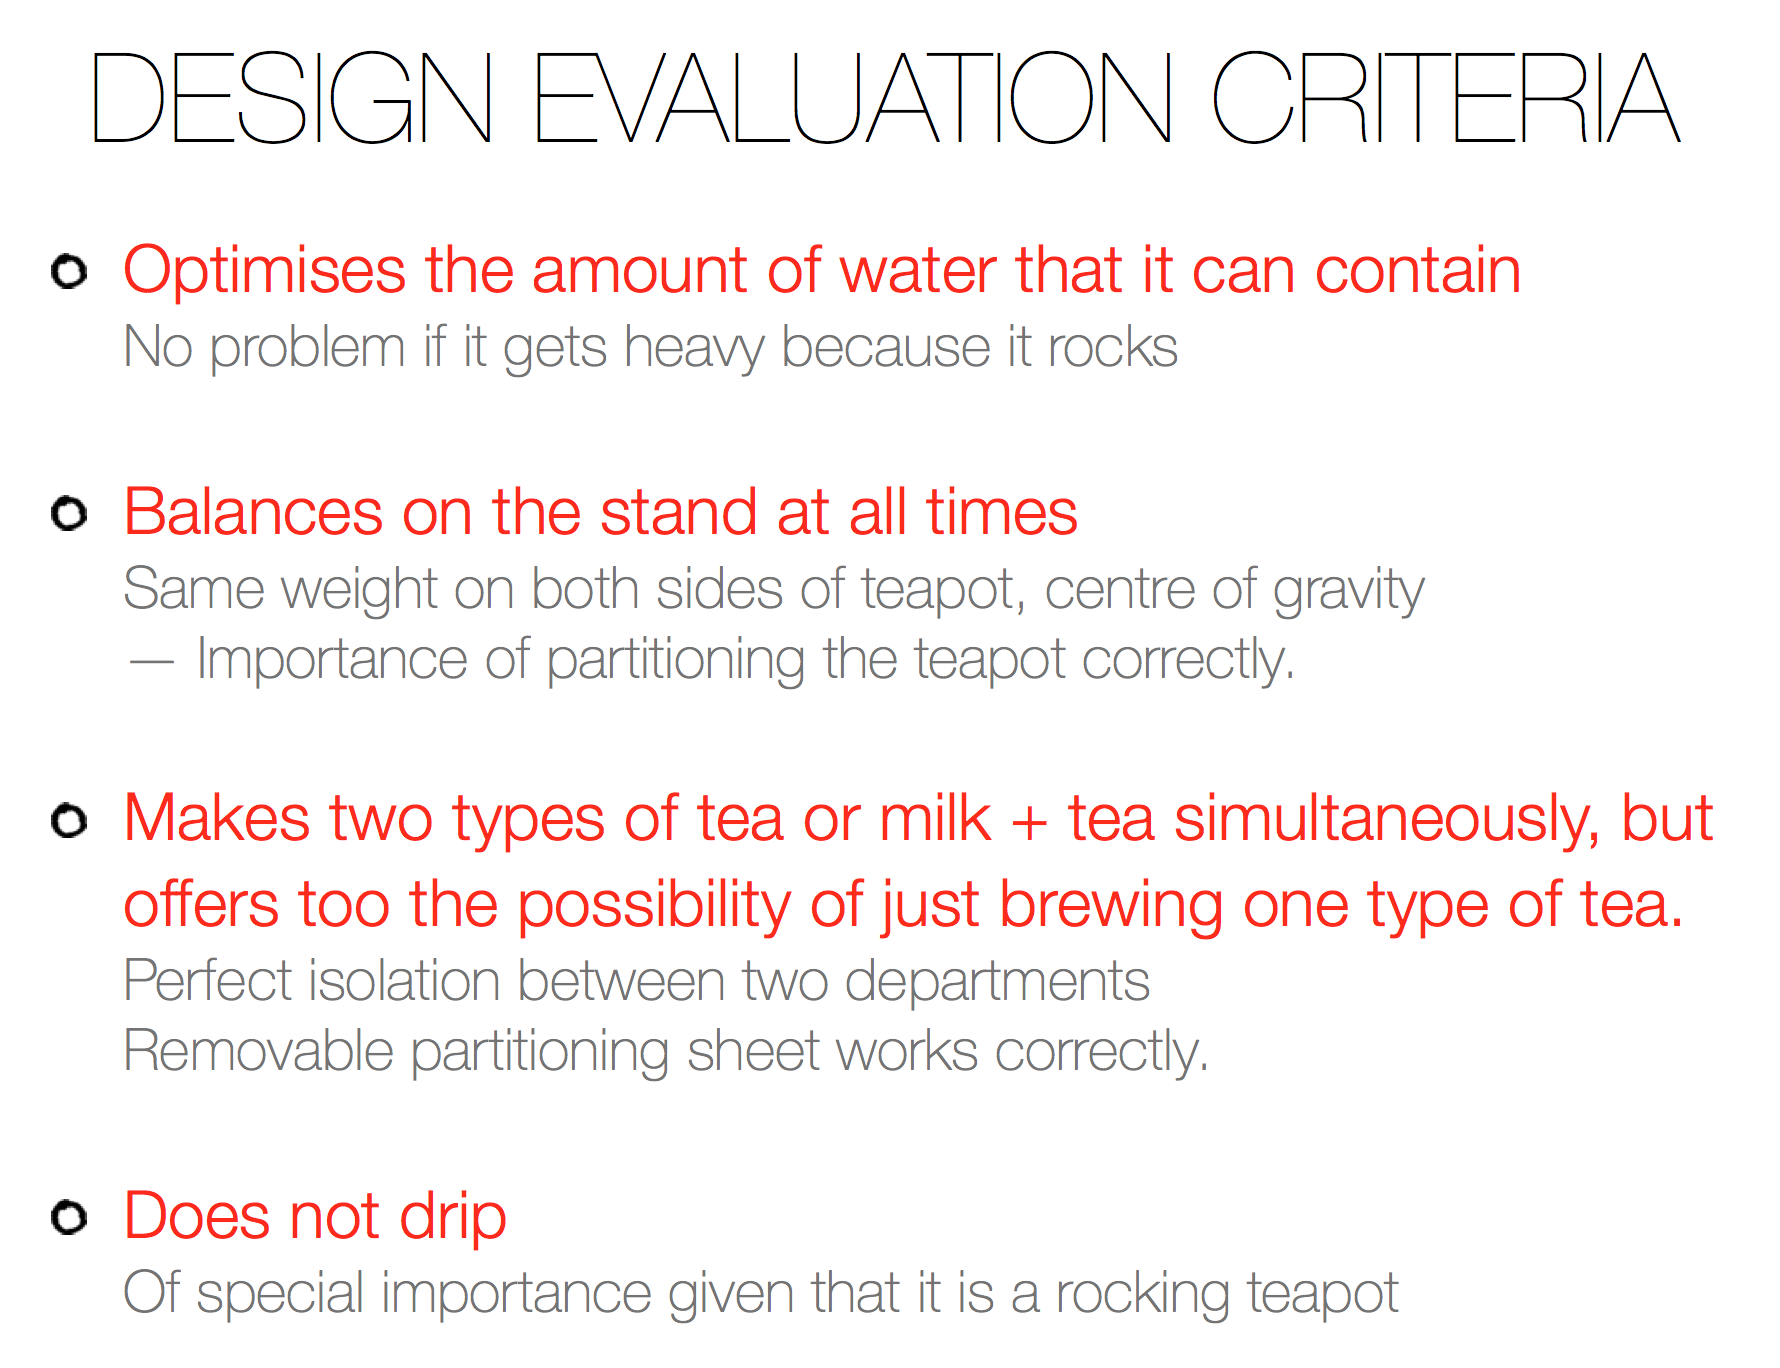
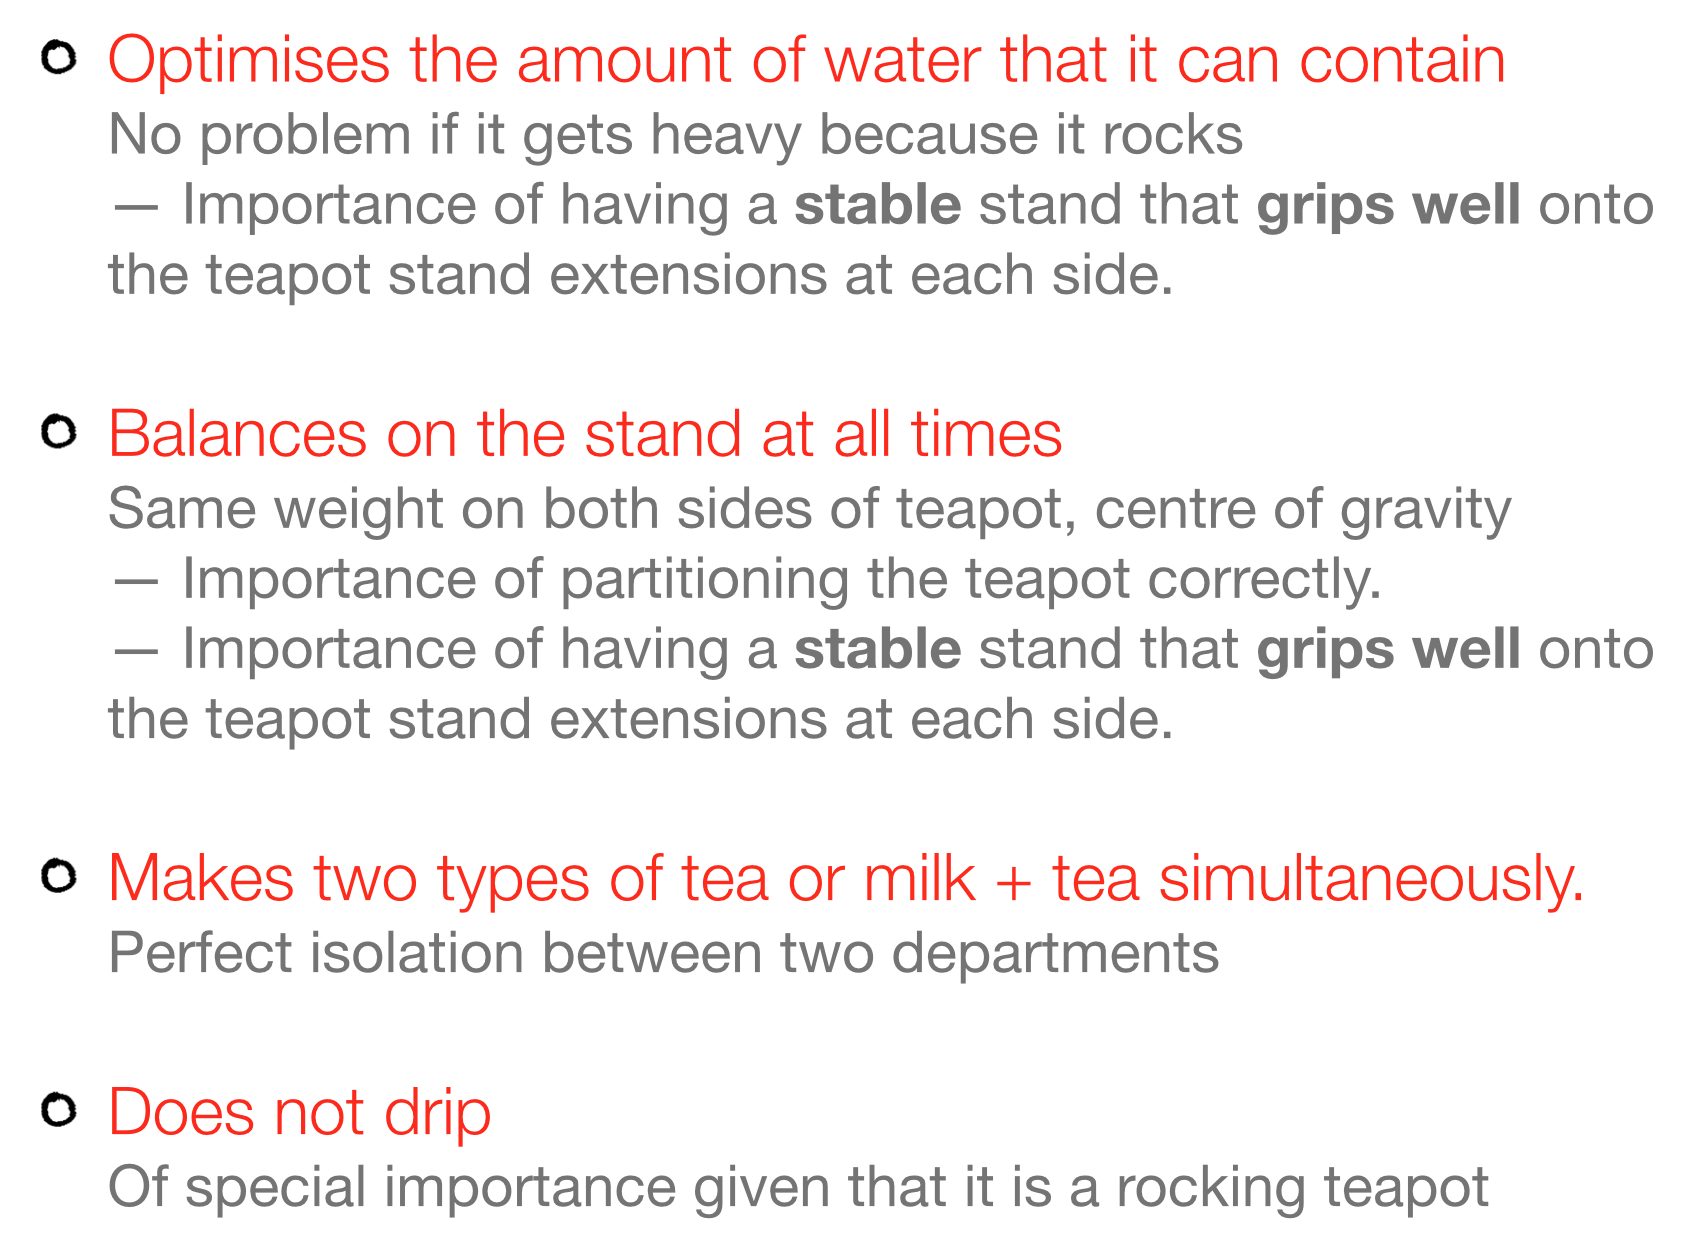
updating teapot files

Changed region(s): [[0.0, 0.3125, 0.9893, 0.7812], [0.0, 0.0312, 0.9893, 0.2812], [0.0, 0.875, 0.8966, 0.9688]]

diff --git a/static/teapot/prototype.html b/static/teapot/prototype.html
@@ -36,31 +36,39 @@
  
      <div id="section1">
      <div id="maintitle"><span id="gray">P</span>R<span id="red">O</span>T<span id="gray">O</span>T<span id="gray">Y</span>P<span id="red">E</span></div>
-     <span id="subtitle">Click on a subsection to know more <br> <a href="#criteria">Design evaluation criteria</a> | <a href="#catia">CATIA</a> | <a href="#feedback">3D Printed Product</a><hr>
+     <span id="subtitle">Click on a subsection to know more <br> <a href="#criteria">Design evaluation criteria</a> | <a href="#catia">CATIA</a> | <a href="#3dprint">3D Printed Product</a><hr>
 
-       <div id="header" class="centered">
+    <div id="header" class="centered">
         <header class="main container-fluid"> 
           <div id="navbar" class="col-lg-12 col-md-12 col-sm-12 col-xs-12">
           <ul>
             <li><a href="index.html">HOME</a></li>
             <li><a href="research.html">RESEARCH</a></li>
             <li><a href="sketches.html">SKETCHES</a></li>
-            <li><a href="prototype.html">INITIAL PROTOTYPE</a></li>
+            <li><a href="prototype.html">PROTOTYPE</a></li>
             <li><a href="pitching.html">PITCHING</a></li>
             <li><a href="modelling.html">MODELLING</a></li>
             <li><a href="contact.html">CONTACT</a></li>
           </ul>
-        </div>
-    </header>
-  </div>
+          </div>
+        </header>
+      </div>
      
      
     <div id="body">
     <div id="criteria" class="sectiontitle">Design Evaluation Criteria</div>
-    <div id="catia" class="sectiontitle">CATIA</div>
-    <p> CATIA was harder to install than to use. Once I had it installed on my Mac (I used a virtual machine, 'VMWare'), within two days I felt quite confident with the way it works. Although I though it was not very intuitive at first, I did get into it quite a lot and I look forward to 3D printing off some more stuff in the near future!</p><br>
+    <p>My aim is to keep my design evaluation criteria as simple and purposeful as possible. Having previously described perfection as something simple that works without flaws, it would only be reasonable to construct my evaluation criteria accordingly. As</p>
+    <p> As shown at the end of the previous chapter <a href="sketches.html">"Sketches"</a>, I wrote down some of the D.E.C. that my teapot must have. From the beginning, I wanted my teapot to optimise the amount of water that I can hold - however I am aware that too much container space means that more tea can brew inside it, which means that the chances of tea being left over or being over-brewed increase. While promoting the idea that making tea is often a collective action, where tea is brewed for several people and therefore making tea becomes part of enjoying a shared moment, my teapot should still conserve the beauty of tea and should not encourage the possibility of tea being over-brewed. In order to come up
+    <p>A second major issue that I came across when making my evaluation criteria was that making a double-spout teapot is already a complex enough target - and offering the possibility of removing the separating sheet to make one big chamber with two spouts would be too far-reached and makes the whole teapot not only risky, but complicated and even somewhat irksome. Hence, I decided to discard the idea that my double-chamber can become one single chamber with two spouts.</p>
+    <p>After re-evaluating my evaluation criteria draft a few times, I constructed a new and final set of criteria, which are the following: <br><br>
+    <img src="photos/criteria.png" class="mediumphotowide">
+    <hr>
+    <div id="catia" class="sectiontitle">3D MODELLING: CATIA</div>
+    <p> CATIA was harder to install than to use. Once I installed on my Mac (I used a virtual machine, 'VMWare'), within two days I felt quite confident with the way it works. Although at first we had a love-hate relationship, after hours of learning how it functions CATIA and I ended up beging friends (I hereby claim that I can make a double-spout, double-chamber teapot on as stand in less than fifteen minutes). I got into it quite a lot and I am currently working on a 3D model of the UCL portico to print off for a crowdfunded project. Being able to 3D model in CATIA has changed a little bit my way of approaching design. I spent a lot of time during the early stages of my project thinking about what the best design would be. Just like it is intuitive to draw ideas on a piece of paper to visualise them, it has now become intuitive to try and 3D two or three versions of the Perfect Teapot and see which one works best. Having access to a 3D printer and knowing how to use CATIA, 3Ds max or Google Sketchup among other programs for 3D modelling, means bridging significantly the gap between concept and experience.</p><br>
     <img src="photos/pitch17.png" class="mediumphotowide">
-    <div id="model" class="sectiontitle">3D Printed Product</div>
+    <br>
+    <hr>
+    <div id="3dprint" class="sectiontitle">3D Printed Product</div>
     <div id="cbp-fwslider" class="cbp-fwslider">
       <ul>
         <li><a href="#"><img src="photos/prototype/shoot1.jpg" alt="img01"/></a></li>

diff --git a/static/teapot/modelling.html b/static/teapot/modelling.html
@@ -10,8 +10,8 @@
   <body>
  
      <div id="section1">
-     <div id="maintitle"><span id="gray">M</span>OD<span id="red">E</span>L<span id="gray">L</span><span id="gray">L</span>I<span id="red">N</span>G</div>
-     <span id="subtitle">Click on a subsection to know more <br> <a href="#purpose">The Purpose</a> | <a href="#techniques">Choosing the modelling technique(s)</a> | <a href="#model">The Model(s)</a><hr>
+     <div id="maintitle"><span id="gray">M</span>OD<span id="red">E</span>L<span id="gray">L</span>I<span id="red">N</span>G</div>
+     <span id="subtitle">Click on a subsection to know more <br> <a href="#purpose">The importance of modelling</a> | <a href="#techniques">Choosing the modelling technique(s)</a> | <a href="#model">The Model(s)</a><hr>
 
        <div id="header" class="centered">
         <header class="main container-fluid"> 
@@ -31,9 +31,22 @@
      
      
     <div id="body">
-    <div id="purpose" class="sectiontitle">The Art of a Teapot</div>
-    <div id="techniques" class="sectiontitle">Choosing the modelling technique(s): What to Model &amp; How to do it</div>
+    <div id="purpose" class="sectiontitle">The Importance of Modelling</div>
+    <p>Modelling is crucial to test the facets of my teapot that could go (very) wrong. My design evaluation criteria includes a rocking, boiling hot container that not only rocks, but whose weight keeps on changing as water is poured in and out of the teapot. Moreover, my criteria also includes a rocking teapot that does not drip... I know, what could <em>ever</em> go wrong here?</p><hr>
+    <p>Given the frailty of my teapot at first glance, I need to make sure that the aspects that could go wrong are modelled before I create a working prototype. Modelling essentially entails representing the functioning of an aspect of my teapot by simplifying and constraining it to a consistent set of rules. These rules are used for interpretation and calibrating the model to understand when things will go wrong and so how to avoid these from going wrong.
+    <div id="techniques" class="sectiontitle">Choosing the modelling technique(s): <br>What to Model &amp; How to do it</div>
+    <p>I have identified three facets that I want to model:<p>
+    <ol> 
+      <li>How varying quantities of water in each chamber in my teapot will affect the equilibrium of my teapot on the stand.</li>
+      <li>Optimising the dimensions of my teapot's stand.</li>
+      <li>Optimsing the thickness of my teapot, which will be made out of ceramics.</li>
+    </ol>
     <div id="model" class="sectiontitle">The Model(s)</div>
+    <p>I hope to work on the modelling of each of the points above over the next week. Below are some initial thoughts on how to optimise the splitting of the two chambers. I came up with a way (drawn in red) to ensure that the teapot can always be in equilibrium position, regardless of the amount of water inside each chamber. However, a problem that the user will have is that the teapot will never go back to its equilibrium position unless the user makes sure to carefully put back the teapot back to its rest position on the stand. I am currently working to find a way to solve this problem.</p>
+    <img src="photos/model2.png" class="mediumphotowide"/>
+    <hr>
+    <img src="photos/model1.png" class="mediumphotowide"/> 
+    <hr>
 
 
 

diff --git a/static/teapot/research.html b/static/teapot/research.html
@@ -37,24 +37,24 @@
      <div id="section1">
      <div id="maintitle"><span id="gray">R</span>E<span id="red">S</span>E<span id="gray">A</span>R<span id="red">C</span>H</div>
      <span id="subtitle">Click on a subsection to know more <br> <a href="#artteapot">The Art of a Teapot</a> | <a href="#visionmission">From Vision to Mission</a> | <a href="#scienceteapot">The Science of a Teapot</a>
-
-       <div id="header" class="centered">
+     
+     
+      <div id="header" class="centered">
         <header class="main container-fluid"> 
           <div id="navbar" class="col-lg-12 col-md-12 col-sm-12 col-xs-12">
-          <ul>
-            <li><a href="index.html">HOME</a></li>
-            <li><a href="research.html">RESEARCH</a></li>
-            <li><a href="sketches.html">SKETCHES</a></li>
-            <li><a href="prototype.html">PROTOTYPE</a></li>
-            <li><a href="pitching.html">PITCHING</a></li>
-            <li><a href="modelling.html">MODELLING</a></li>
-            <li><a href="contact.html">CONTACT</a></li>
-          </ul>
-        </div>
-    </header>
-  </div>
-     
-     
+            <ul>
+              <li><a href="index.html">HOME</a></li>
+              <li><a href="research.html">RESEARCH</a></li>
+              <li><a href="sketches.html">SKETCHES</a></li>
+              <li><a href="prototype.html">PROTOTYPE</a></li>
+              <li><a href="pitching.html">PITCHING</a></li>
+              <li><a href="modelling.html">MODELLING</a></li>
+              <li><a href="contact.html">CONTACT</a></li>
+            </ul>
+          </div>
+        </header>
+      </div>
+
     <div id="body">
     <hr>
       <span class="quotemarksleft">“</span>
@@ -64,7 +64,7 @@
       <div id="artteapot" class="sectiontitle">The Art of a Teapot</div>
       <img src="photos/research.png" class="mediumphoto">
       <h4 class="smallertitle">WHAT IS TEA? SOME INTERESTING THOUGHTS BY SOME INTERESTING PEOPLE</h4>
-    
+      <p>Click on the arrows to navigate
     <div id="cbp-fwslider" class="cbp-fwslider">
       <ul>
         <li><a href="#"><img src="photos/quote1.png" alt="img01"/></a></li>
